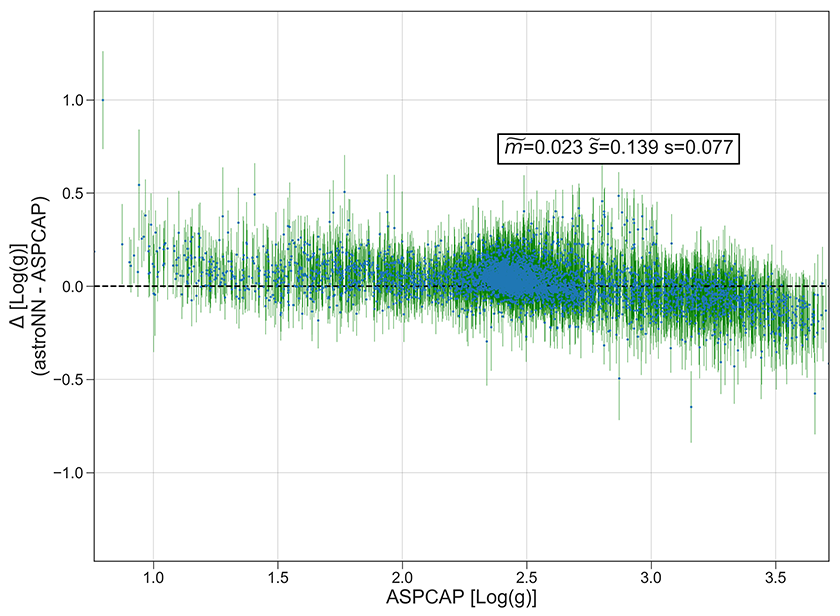
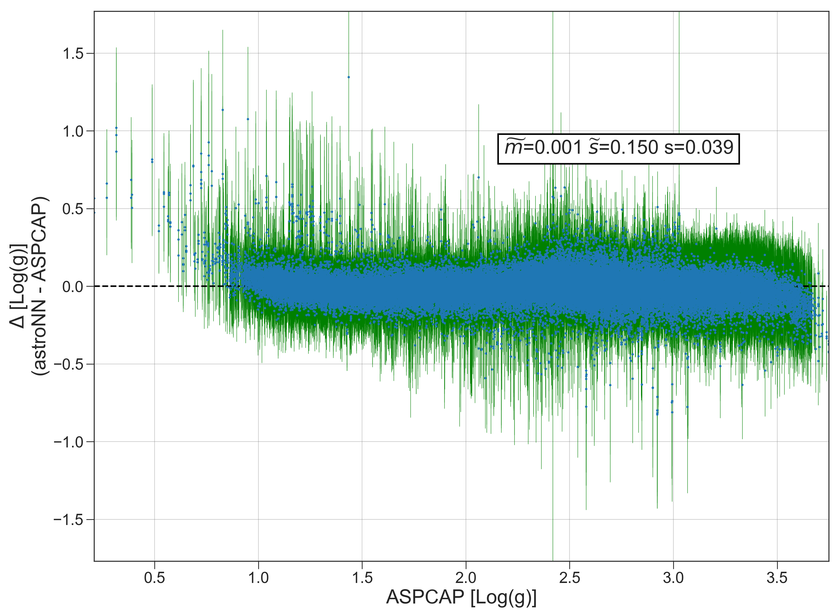
update BCNN plots

diff --git a/docs/source/neuralnets/apogee_bcnn.rst b/docs/source/neuralnets/apogee_bcnn.rst
@@ -94,7 +94,7 @@ Example Plots using aspcap_residue_plot
 ============================================
 
 .. image:: /neuralnets/bcnn_apogee/logg_test.png
-.. image:: /neuralnets/bcnn_apogee/teff_test.png
+.. image:: /neuralnets/bcnn_apogee/Fe_test.png
 
 Example Plots using jacobian
 ============================================
